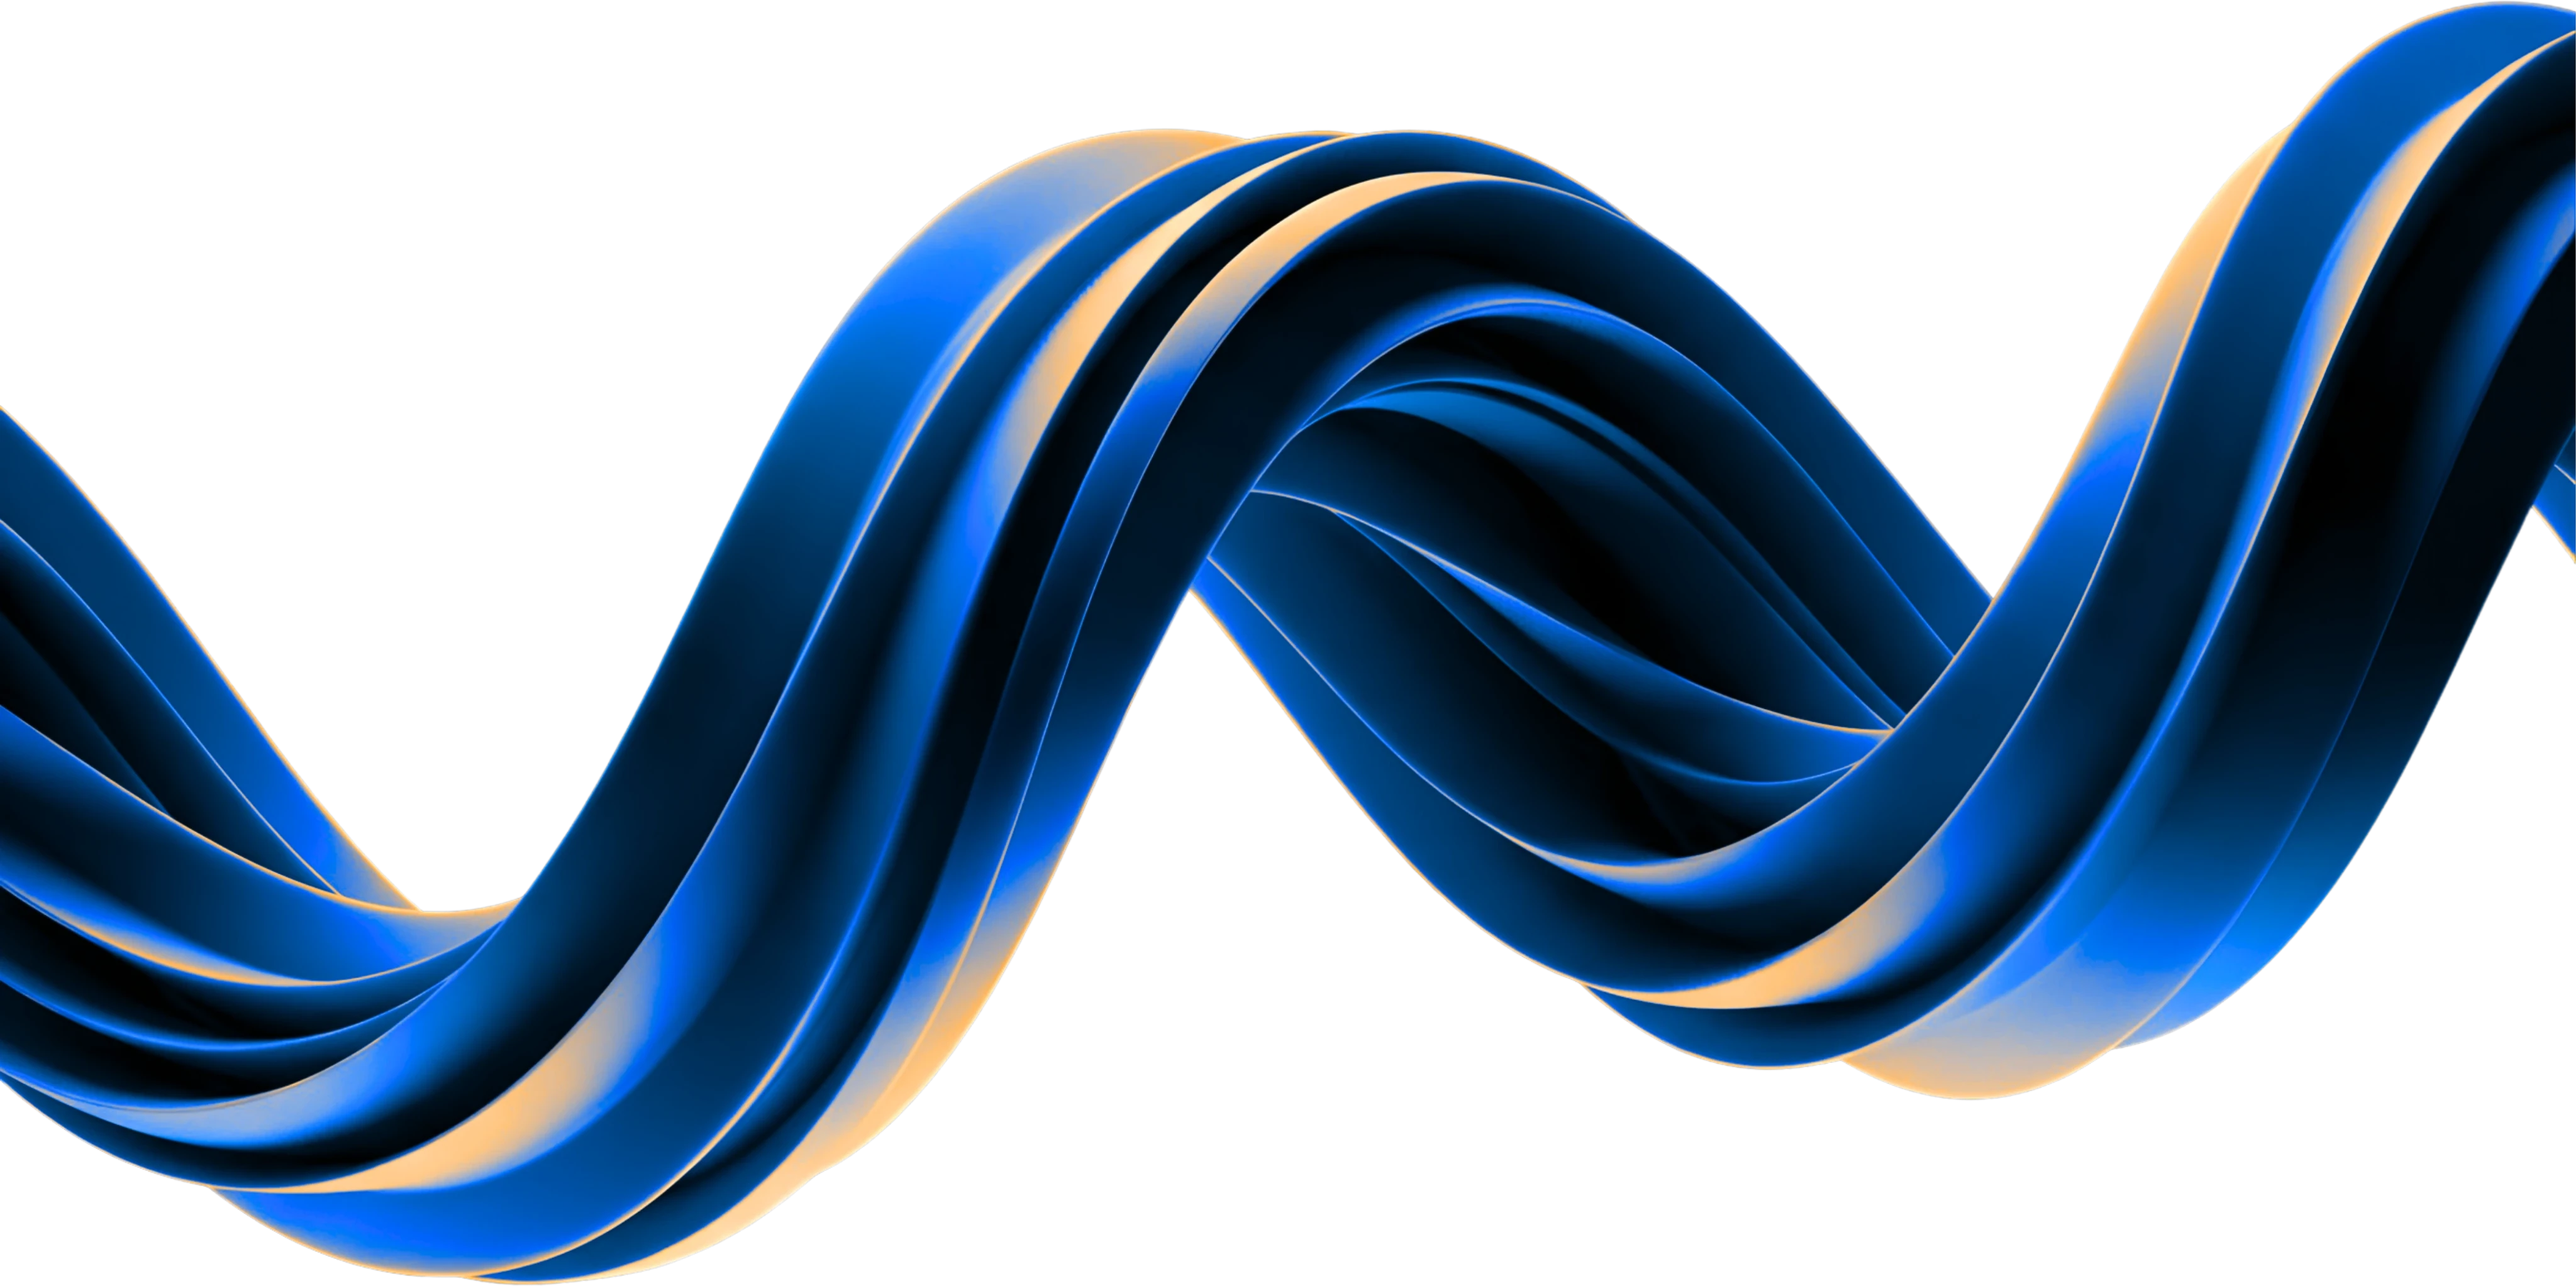
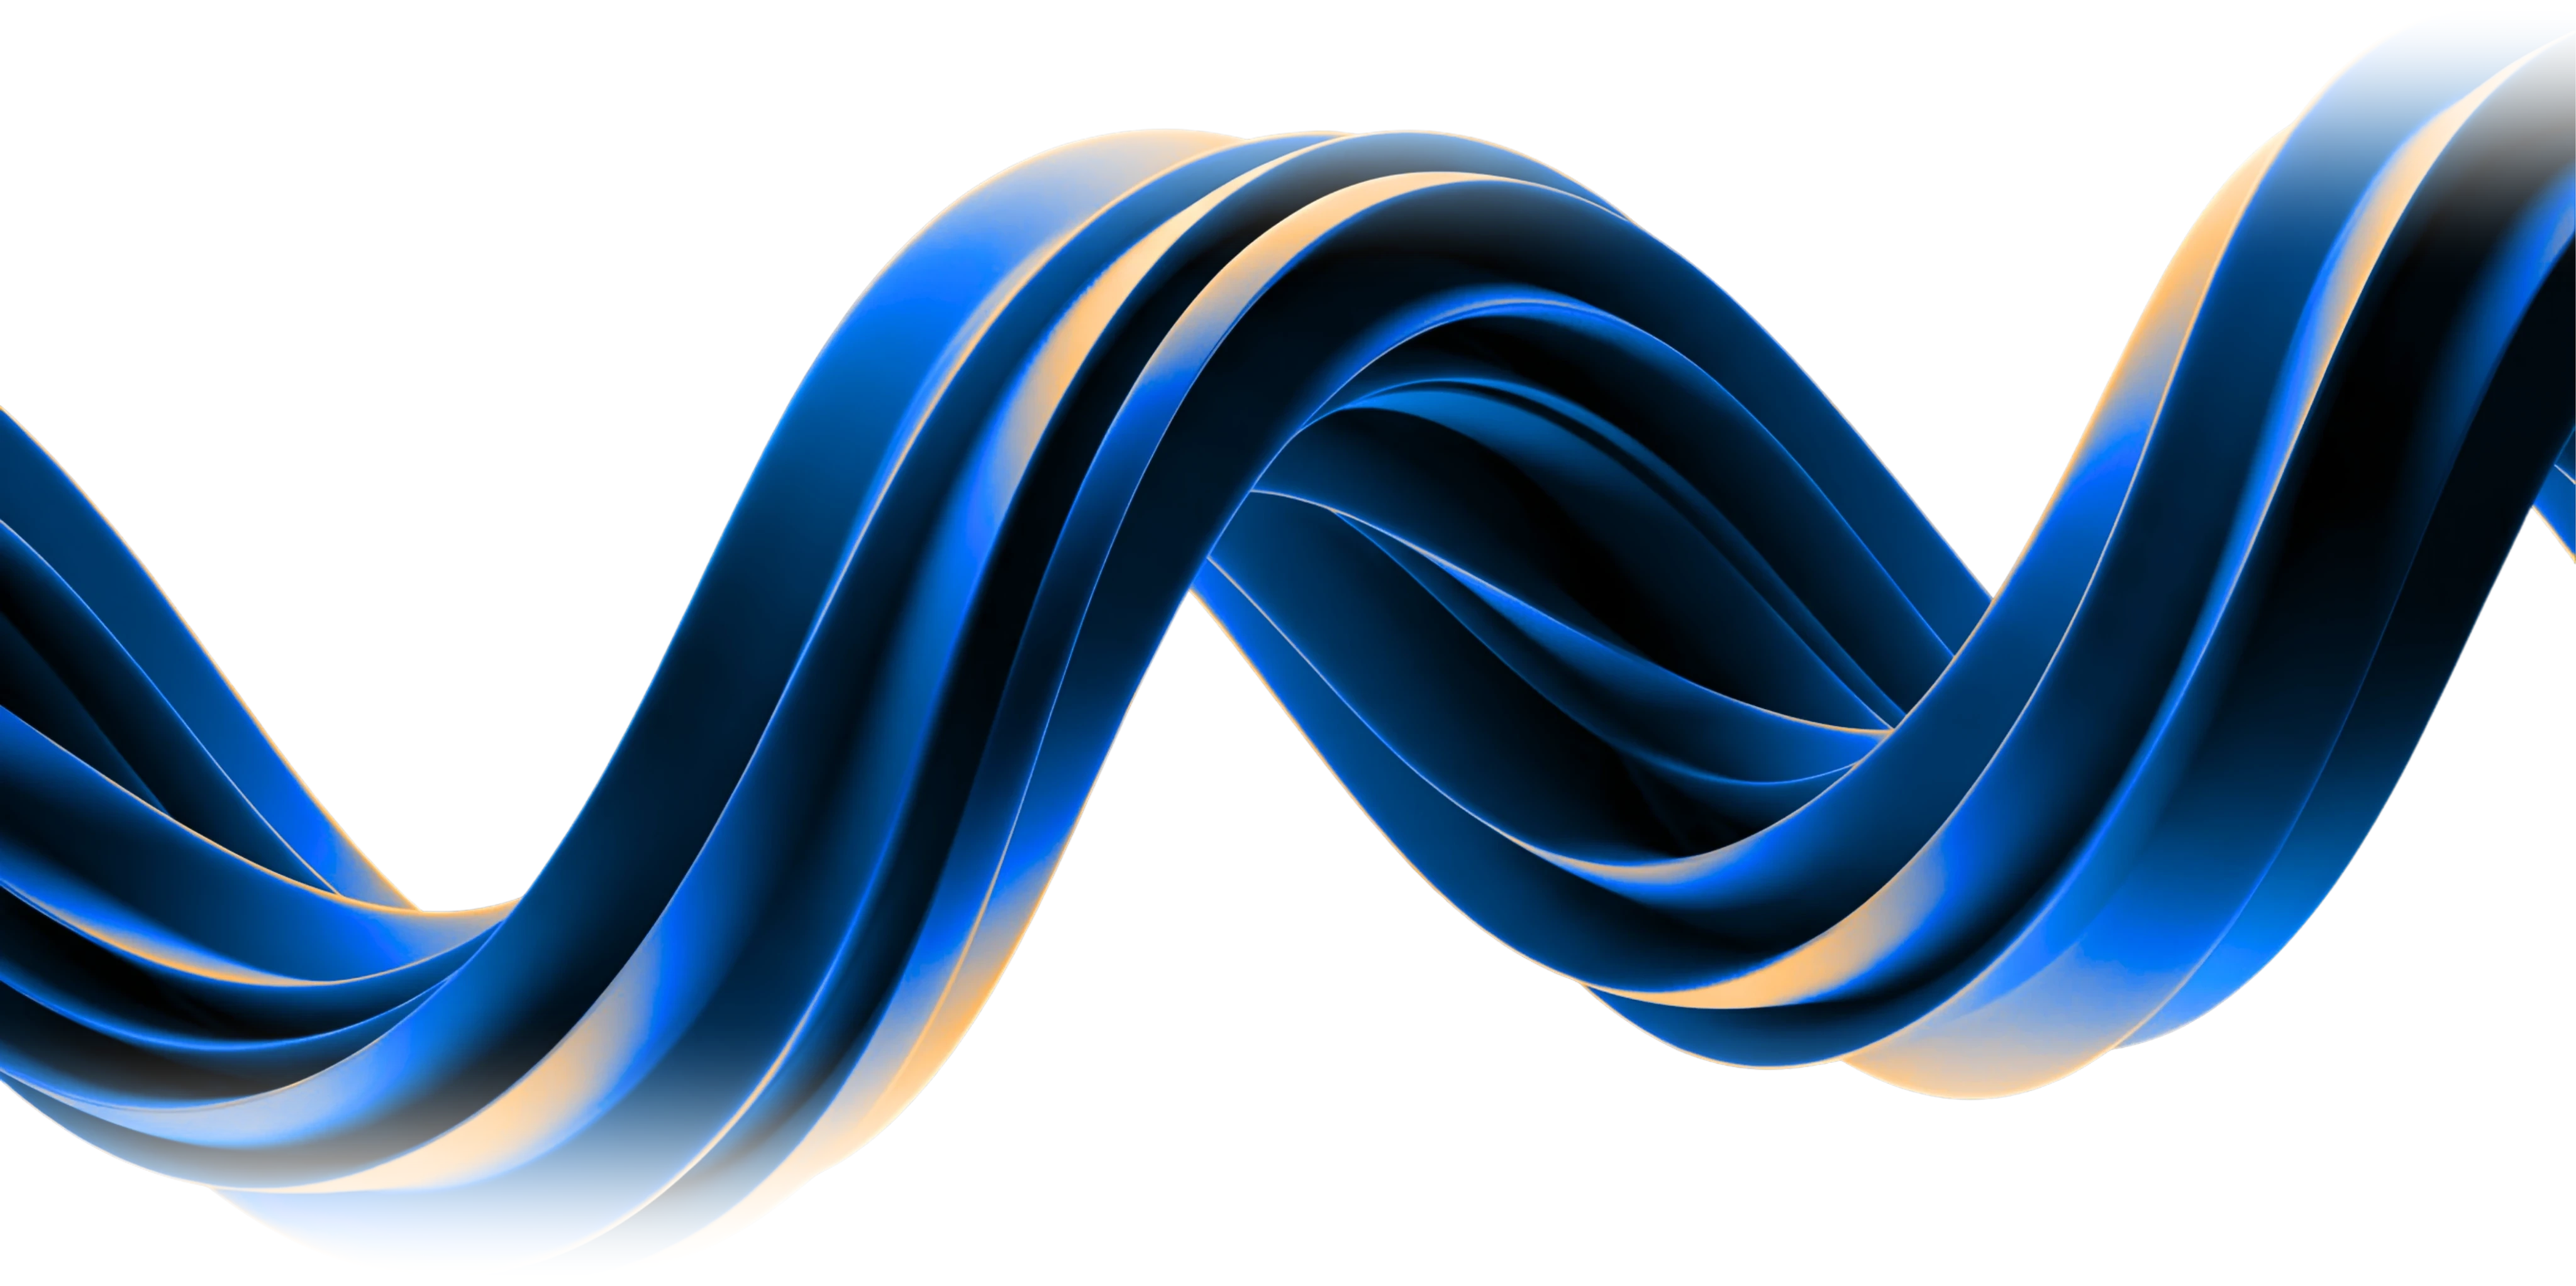
fix: eliminate desktop section clipping seams and apply smooth vertical alpha fades

Changed region(s): [[0.0, 0.8006, 0.375, 1.0], [0.8438, 0.0, 1.0, 0.1848], [0.375, 0.0924, 0.625, 0.1848]]

diff --git a/style.css b/style.css
@@ -335,7 +335,7 @@ body, body.desktop-view {
   justify-content: center;
   padding: 100px 48px;
   box-sizing: border-box;
-  overflow: hidden;
+  overflow: visible;
   background-color: var(--bg-deep);
 }
 
@@ -458,6 +458,8 @@ body, body.desktop-view {
   box-shadow: 0 -2px 60px rgba(255, 88, 0, 0.7), inset 0 30px 90px rgba(0, 0, 255, 0.5);
   pointer-events: none;
   z-index: 3;
+  -webkit-mask-image: linear-gradient(to bottom, black 50%, transparent 80%);
+  mask-image: linear-gradient(to bottom, black 50%, transparent 80%);
 }
 
 /* Designer Center Lens Flare */
@@ -2406,6 +2408,11 @@ body, body.desktop-view {
   }
   .desktop-experience {
     display: block !important;
+    position: relative;
+    width: 100%;
+    max-width: 100vw;
+    overflow-x: clip;
+    overflow-y: visible;
   }
 }
 
